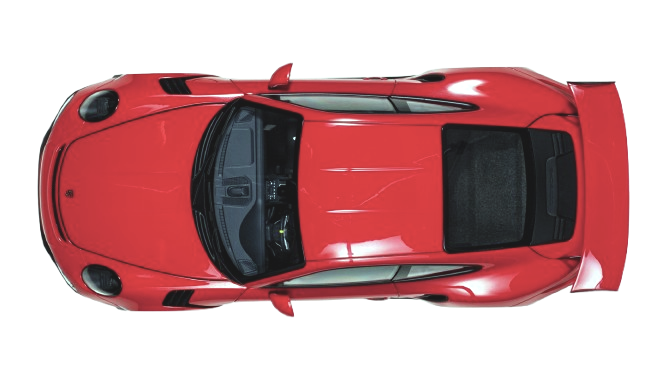
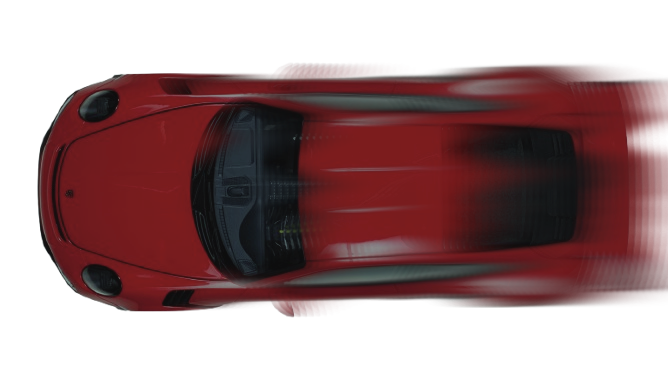
updated animation on slide 2

diff --git a/index.html b/index.html
@@ -237,6 +237,9 @@
 
       <!-- Slide 2 -->
       <div class="slide slide2" id="slide2" >
+
+
+        <div class="image-section-wrapper">
         <div class="image-section">
 
 
@@ -249,35 +252,94 @@
           
 
 
-          <svg class="svgLightLine" viewBox="966.054 -3834.179 858.947 2807.5249" width="1680px" height="2807.52px"  preserveAspectRatio="xMidYMid meet">
+          <svg class="svgLightLine" viewBox="966.054 -3834.179 858.947 2807.5249" width="1680px" height="2807.52px" preserveAspectRatio="xMidYMid meet">
             <defs>
-              <!-- Define a glow filter for a soft light effect -->
-              <filter id="glow">
-                <feGaussianBlur stdDeviation="4" result="blur" />
-                <feMerge>
-                  <feMergeNode in="blur" />
-                  <feMergeNode in="SourceGraphic" />
-                </feMerge>
+                <!-- Red to Transparent Gradient -->
+                <linearGradient id="trailGradient" x1="0%" y1="50%" x2="100%" y2="50%">
+                    <stop offset="0%" stop-color="red" stop-opacity="1"/>
+                    <stop offset="100%" stop-color="red" stop-opacity="0"/>
+                </linearGradient>
+        
+                <!-- Orange to Transparent Gradient -->
+                <linearGradient id="orangeTrailGradient" x1="0%" y1="50%" x2="100%" y2="50%">
+                    <stop offset="0%" stop-color="orangered" stop-opacity="1"/>
+                    <stop offset="100%" stop-color="orangered" stop-opacity="0"/>
+                </linearGradient>
+        
+                <!-- Glow Effect -->
+                <filter id="glow" x="-50%" y="-50%" width="200%" height="200%">
+                    <feGaussianBlur stdDeviation="20" result="blur"/>
+                    <feMerge>
+                        <feMergeNode in="blur"/>
+                    </feMerge>
+                </filter>
+                <filter id="glow2" x="-50%" y="-50%" width="200%" height="200%">
+                  <feGaussianBlur stdDeviation="6" result="blur"/>
+                  <feMerge>
+                      <feMergeNode in="blur"/>
+                  </feMerge>
               </filter>
-              <!-- Define a linear gradient that fades from opaque red to transparent -->
-              <linearGradient id="trailGradient" x1="0%" y1="0%" x2="100%" y2="0%">
-                <stop offset="0%" style="stop-color:rgb(255,0,0);stop-opacity:1" />
-                <stop offset="100%" style="stop-color:rgb(255,0,0);stop-opacity:0" />
-              </linearGradient>
             </defs>
-          
-            <!-- The enhanced light trail path -->
-            <path class="svgCarLightPath" id="lightTrail" 
-                  d="M 1825.001 -3834.179 L 1823.158 -3828.895 C 1821.314 -3823.611 1817.628 -3813.043 1814.801 -3804.318 C 1811.975 -3795.594 1810.009 -3788.712 1806.937 -3780.602 C 1803.865 -3772.492 1799.687 -3763.153 1793.789 -3753.691 C 1787.89 -3744.229 1780.272 -3734.644 1773.39 -3726.534 C 1766.509 -3718.423 1760.364 -3711.788 1753.974 -3703.555 C 1747.584 -3695.322 1740.949 -3685.491 1734.805 -3676.398 C 1728.661 -3667.305 1723.008 -3658.949 1716.004 -3650.839 C 1709 -3642.728 1700.644 -3634.864 1688.724 -3621.346 C 1676.805 -3607.829 1661.321 -3588.66 1649.402 -3575.511 C 1637.482 -3562.363 1629.126 -3555.236 1616.715 -3545.774 C 1604.304 -3536.312 1587.838 -3524.516 1571.741 -3512.842 C 1555.643 -3501.168 1539.914 -3489.617 1527.38 -3480.155 C 1514.846 -3470.693 1505.507 -3463.32 1496.291 -3456.193 C 1487.075 -3449.066 1477.981 -3442.184 1469.502 -3434.811 C 1461.023 -3427.439 1453.159 -3419.574 1444.065 -3410.481 C 1434.972 -3401.388 1424.65 -3391.065 1413.591 -3380.252 C 1402.531 -3369.438 1390.735 -3358.133 1381.273 -3350.146 C 1371.811 -3342.158 1364.683 -3337.489 1354.116 -3324.094 C 1343.548 -3310.7 1329.539 -3288.582 1318.48 -3271.378 C 1307.421 -3254.175 1299.31 -3241.886 1291.569 -3230.581 C 1283.827 -3219.276 1276.454 -3208.954 1270.187 -3199.369 C 1263.92 -3189.784 1258.759 -3180.937 1252.984 -3169.508 C 1247.208 -3158.08 1240.818 -3144.072 1231.356 -3122.09 C 1221.894 -3100.108 1209.36 -3070.154 1200.758 -3044.731 C 1192.157 -3019.309 1187.487 -2998.419 1184.661 -2977.529 C 1181.835 -2956.639 1180.852 -2935.749 1181.098 -2916.333 C 1181.343 -2896.918 1182.818 -2878.977 1185.398 -2859.807 C 1187.979 -2840.638 1191.665 -2820.239 1201.25 -2790.42 C 1210.835 -2760.601 1226.318 -2721.361 1240.081 -2690.067 C 1253.844 -2658.773 1265.886 -2635.426 1279.895 -2612.569 C 1293.904 -2589.713 1309.878 -2567.349 1324.378 -2550.637 C 1338.878 -2533.925 1351.904 -2522.865 1365.421 -2509.963 C 1378.938 -2497.06 1392.946 -2482.314 1403.76 -2472.088 C 1414.574 -2461.861 1422.192 -2456.155 1431.04 -2446.666 C 1439.887 -2437.177 1449.964 -2423.905 1462.129 -2408.791 C 1474.294 -2393.676 1488.549 -2376.719 1500.837 -2358.532 C 1513.125 -2340.346 1523.448 -2320.93 1534.999 -2298.566 C 1546.55 -2276.201 1559.329 -2250.887 1569.406 -2227.293 C 1579.482 -2203.7 1586.855 -2181.827 1593.982 -2156.022 C 1601.109 -2130.217 1607.991 -2100.479 1612.537 -2070.742 C 1617.084 -2041.004 1619.296 -2011.267 1620.033 -1983.004 C 1620.771 -1954.741 1620.033 -1927.952 1618.313 -1902.393 C 1616.592 -1876.833 1613.889 -1852.503 1608.359 -1833.797 C 1602.829 -1815.092 1594.473 -1802.013 1584.52 -1787.363 C 1574.566 -1772.712 1563.016 -1756.492 1552.079 -1742.114 C 1541.143 -1727.737 1530.82 -1715.203 1520.252 -1701.194 C 1509.684 -1687.186 1498.871 -1671.703 1487.811 -1657.326 C 1476.752 -1642.949 1465.447 -1629.677 1454.511 -1617.881 C 1443.574 -1606.084 1433.006 -1595.762 1421.209 -1585.686 C 1409.413 -1575.609 1396.387 -1565.779 1381.764 -1553.982 C 1367.141 -1542.185 1350.921 -1528.422 1336.666 -1514.905 C 1322.412 -1501.388 1310.124 -1488.116 1291.815 -1470.23 C 1273.505 -1452.344 1249.175 -1429.844 1226.441 -1408.394 C 1203.708 -1386.945 1182.572 -1366.546 1162.788 -1346.148 C 1143.004 -1325.749 1124.571 -1305.351 1106.631 -1282.617 C 1088.69 -1259.884 1071.24 -1234.816 1053.791 -1208.151 C 1036.342 -1181.485 1018.893 -1153.223 1005.622 -1129.506 C 992.351 -1105.79 983.257 -1086.621 977.359 -1070.236 C 971.461 -1053.852 968.757 -1040.253 967.405 -1033.454 L 966.054 -1026.654" bx:d="M 1825.001 -3834.179 U 1813.941 -3802.475 U 1808.043 -3781.831 U 1795.509 -3753.814 U 1772.653 -3725.059 U 1754.22 -3705.152 U 1734.313 -3675.661 U 1717.356 -3650.593 U 1692.288 -3626.999 U 1645.838 -3569.49 U 1620.77 -3548.109 U 1571.372 -3512.719 U 1524.185 -3478.066 U 1496.168 -3455.947 U 1468.888 -3435.303 U 1445.294 -3411.71 U 1414.328 -3380.743 U 1378.938 -3346.828 U 1357.556 -3332.819 U 1315.531 -3266.463 U 1291.2 -3229.598 U 1269.081 -3198.632 U 1253.598 -3172.089 U 1234.428 -3130.063 U 1196.826 -3040.199 U 1182.818 -2977.529 U 1179.869 -2914.859 U 1184.292 -2861.036 U 1195.352 -2799.841 U 1241.801 -2682.121 U 1277.929 -2612.078 U 1325.853 -2544.984 U 1364.929 -2511.806 U 1406.955 -2467.568 U 1429.811 -2450.448 U 1460.04 -2410.634 U 1502.803 -2359.761 U 1533.77 -2301.515 U 1572.109 -2225.573 U 1594.228 -2159.954 U 1614.872 -2070.742 U 1621.508 -1981.529 U 1619.296 -1901.164 U 1611.185 -1828.172 U 1586.117 -1788.933 U 1551.465 -1740.271 U 1520.498 -1702.669 U 1488.057 -1656.22 U 1454.142 -1616.406 U 1422.438 -1585.44 U 1383.362 -1555.948 U 1334.7 -1514.659 U 1297.836 -1474.845 U 1224.844 -1407.343 U 1161.436 -1346.148 U 1106.139 -1284.952 U 1053.791 -1209.748 U 1001.444 -1124.96 U 974.164 -1067.451 U 966.054 -1026.654 1@10d493d5"
-                   />
-          </svg>
+        
+            <!-- Original Red Light Trail -->
+            <path class="svgCarLightPath" id="lightTrail"
+                d="M 1825.001 -3834.179 L 1823.158 -3828.895 C 1821.314 -3823.611 1817.628 -3813.043 1814.801 -3804.318 C 1811.975 -3795.594 1810.009 -3788.712 1806.937 -3780.602 C 1803.865 -3772.492 1799.687 -3763.153 1793.789 -3753.691 C 1787.89 -3744.229 1780.272 -3734.644 1773.39 -3726.534 C 1766.509 -3718.423 1760.364 -3711.788 1753.974 -3703.555 C 1747.584 -3695.322 1740.949 -3685.491 1734.805 -3676.398 C 1728.661 -3667.305 1723.008 -3658.949 1716.004 -3650.839 C 1709 -3642.728 1700.644 -3634.864 1688.724 -3621.346 C 1676.805 -3607.829 1661.321 -3588.66 1649.402 -3575.511 C 1637.482 -3562.363 1629.126 -3555.236 1616.715 -3545.774 C 1604.304 -3536.312 1587.838 -3524.516 1571.741 -3512.842 C 1555.643 -3501.168 1539.914 -3489.617 1527.38 -3480.155 C 1514.846 -3470.693 1505.507 -3463.32 1496.291 -3456.193 C 1487.075 -3449.066 1477.981 -3442.184 1469.502 -3434.811 C 1461.023 -3427.439 1453.159 -3419.574 1444.065 -3410.481 C 1434.972 -3401.388 1424.65 -3391.065 1413.591 -3380.252 C 1402.531 -3369.438 1390.735 -3358.133 1381.273 -3350.146 C 1371.811 -3342.158 1364.683 -3337.489 1354.116 -3324.094 C 1343.548 -3310.7 1329.539 -3288.582 1318.48 -3271.378 C 1307.421 -3254.175 1299.31 -3241.886 1291.569 -3230.581 C 1283.827 -3219.276 1276.454 -3208.954 1270.187 -3199.369 C 1263.92 -3189.784 1258.759 -3180.937 1252.984 -3169.508 C 1247.208 -3158.08 1240.818 -3144.072 1231.356 -3122.09 C 1221.894 -3100.108 1209.36 -3070.154 1200.758 -3044.731 C 1192.157 -3019.309 1187.487 -2998.419 1184.661 -2977.529 C 1181.835 -2956.639 1180.852 -2935.749 1181.098 -2916.333 C 1181.343 -2896.918 1182.818 -2878.977 1185.398 -2859.807 C 1187.979 -2840.638 1191.665 -2820.239 1201.25 -2790.42 C 1210.835 -2760.601 1226.318 -2721.361 1240.081 -2690.067 C 1253.844 -2658.773 1265.886 -2635.426 1279.895 -2612.569 C 1293.904 -2589.713 1309.878 -2567.349 1324.378 -2550.637 C 1338.878 -2533.925 1351.904 -2522.865 1365.421 -2509.963 C 1378.938 -2497.06 1392.946 -2482.314 1403.76 -2472.088 C 1414.574 -2461.861 1422.192 -2456.155 1431.04 -2446.666 C 1439.887 -2437.177 1449.964 -2423.905 1462.129 -2408.791 C 1474.294 -2393.676 1488.549 -2376.719 1500.837 -2358.532 C 1513.125 -2340.346 1523.448 -2320.93 1534.999 -2298.566 C 1546.55 -2276.201 1559.329 -2250.887 1569.406 -2227.293 C 1579.482 -2203.7 1586.855 -2181.827 1593.982 -2156.022 C 1601.109 -2130.217 1607.991 -2100.479 1612.537 -2070.742 C 1617.084 -2041.004 1619.296 -2011.267 1620.033 -1983.004 C 1620.771 -1954.741 1620.033 -1927.952 1618.313 -1902.393 C 1616.592 -1876.833 1613.889 -1852.503 1608.359 -1833.797 C 1602.829 -1815.092 1594.473 -1802.013 1584.52 -1787.363 C 1574.566 -1772.712 1563.016 -1756.492 1552.079 -1742.114 C 1541.143 -1727.737 1530.82 -1715.203 1520.252 -1701.194 C 1509.684 -1687.186 1498.871 -1671.703 1487.811 -1657.326 C 1476.752 -1642.949 1465.447 -1629.677 1454.511 -1617.881 C 1443.574 -1606.084 1433.006 -1595.762 1421.209 -1585.686 C 1409.413 -1575.609 1396.387 -1565.779 1381.764 -1553.982 C 1367.141 -1542.185 1350.921 -1528.422 1336.666 -1514.905 C 1322.412 -1501.388 1310.124 -1488.116 1291.815 -1470.23 C 1273.505 -1452.344 1249.175 -1429.844 1226.441 -1408.394 C 1203.708 -1386.945 1182.572 -1366.546 1162.788 -1346.148 C 1143.004 -1325.749 1124.571 -1305.351 1106.631 -1282.617 C 1088.69 -1259.884 1071.24 -1234.816 1053.791 -1208.151 C 1036.342 -1181.485 1018.893 -1153.223 1005.622 -1129.506 C 992.351 -1105.79 983.257 -1086.621 977.359 -1070.236 C 971.461 -1053.852 968.757 -1040.253 967.405 -1033.454 L 966.054 -1026.654" bx:d="M 1825.001 -3834.179 U 1813.941 -3802.475 U 1808.043 -3781.831 U 1795.509 -3753.814 U 1772.653 -3725.059 U 1754.22 -3705.152 U 1734.313 -3675.661 U 1717.356 -3650.593 U 1692.288 -3626.999 U 1645.838 -3569.49 U 1620.77 -3548.109 U 1571.372 -3512.719 U 1524.185 -3478.066 U 1496.168 -3455.947 U 1468.888 -3435.303 U 1445.294 -3411.71 U 1414.328 -3380.743 U 1378.938 -3346.828 U 1357.556 -3332.819 U 1315.531 -3266.463 U 1291.2 -3229.598 U 1269.081 -3198.632 U 1253.598 -3172.089 U 1234.428 -3130.063 U 1196.826 -3040.199 U 1182.818 -2977.529 U 1179.869 -2914.859 U 1184.292 -2861.036 U 1195.352 -2799.841 U 1241.801 -2682.121 U 1277.929 -2612.078 U 1325.853 -2544.984 U 1364.929 -2511.806 U 1406.955 -2467.568 U 1429.811 -2450.448 U 1460.04 -2410.634 U 1502.803 -2359.761 U 1533.77 -2301.515 U 1572.109 -2225.573 U 1594.228 -2159.954 U 1614.872 -2070.742 U 1621.508 -1981.529 U 1619.296 -1901.164 U 1611.185 -1828.172 U 1586.117 -1788.933 U 1551.465 -1740.271 U 1520.498 -1702.669 U 1488.057 -1656.22 U 1454.142 -1616.406 U 1422.438 -1585.44 U 1383.362 -1555.948 U 1334.7 -1514.659 U 1297.836 -1474.845 U 1224.844 -1407.343 U 1161.436 -1346.148 U 1106.139 -1284.952 U 1053.791 -1209.748 U 1001.444 -1124.96 U 974.164 -1067.451 U 966.054 -1026.654 1@10d493d5"
+                stroke="url(#trailGradient)"
+                
+                fill="none"
+                filter="url(#glow)"
+                opacity="0.8"
+            />
+        
+            <!-- Slightly Offset Orange Light Trail -->
+            <path class="svgCarLightPath2" id="lightTrailOrange"
+                d="M 1825.001 -3834.179 L 1823.158 -3828.895 C 1821.314 -3823.611 1817.628 -3813.043 1814.801 -3804.318 C 1811.975 -3795.594 1810.009 -3788.712 1806.937 -3780.602 C 1803.865 -3772.492 1799.687 -3763.153 1793.789 -3753.691 C 1787.89 -3744.229 1780.272 -3734.644 1773.39 -3726.534 C 1766.509 -3718.423 1760.364 -3711.788 1753.974 -3703.555 C 1747.584 -3695.322 1740.949 -3685.491 1734.805 -3676.398 C 1728.661 -3667.305 1723.008 -3658.949 1716.004 -3650.839 C 1709 -3642.728 1700.644 -3634.864 1688.724 -3621.346 C 1676.805 -3607.829 1661.321 -3588.66 1649.402 -3575.511 C 1637.482 -3562.363 1629.126 -3555.236 1616.715 -3545.774 C 1604.304 -3536.312 1587.838 -3524.516 1571.741 -3512.842 C 1555.643 -3501.168 1539.914 -3489.617 1527.38 -3480.155 C 1514.846 -3470.693 1505.507 -3463.32 1496.291 -3456.193 C 1487.075 -3449.066 1477.981 -3442.184 1469.502 -3434.811 C 1461.023 -3427.439 1453.159 -3419.574 1444.065 -3410.481 C 1434.972 -3401.388 1424.65 -3391.065 1413.591 -3380.252 C 1402.531 -3369.438 1390.735 -3358.133 1381.273 -3350.146 C 1371.811 -3342.158 1364.683 -3337.489 1354.116 -3324.094 C 1343.548 -3310.7 1329.539 -3288.582 1318.48 -3271.378 C 1307.421 -3254.175 1299.31 -3241.886 1291.569 -3230.581 C 1283.827 -3219.276 1276.454 -3208.954 1270.187 -3199.369 C 1263.92 -3189.784 1258.759 -3180.937 1252.984 -3169.508 C 1247.208 -3158.08 1240.818 -3144.072 1231.356 -3122.09 C 1221.894 -3100.108 1209.36 -3070.154 1200.758 -3044.731 C 1192.157 -3019.309 1187.487 -2998.419 1184.661 -2977.529 C 1181.835 -2956.639 1180.852 -2935.749 1181.098 -2916.333 C 1181.343 -2896.918 1182.818 -2878.977 1185.398 -2859.807 C 1187.979 -2840.638 1191.665 -2820.239 1201.25 -2790.42 C 1210.835 -2760.601 1226.318 -2721.361 1240.081 -2690.067 C 1253.844 -2658.773 1265.886 -2635.426 1279.895 -2612.569 C 1293.904 -2589.713 1309.878 -2567.349 1324.378 -2550.637 C 1338.878 -2533.925 1351.904 -2522.865 1365.421 -2509.963 C 1378.938 -2497.06 1392.946 -2482.314 1403.76 -2472.088 C 1414.574 -2461.861 1422.192 -2456.155 1431.04 -2446.666 C 1439.887 -2437.177 1449.964 -2423.905 1462.129 -2408.791 C 1474.294 -2393.676 1488.549 -2376.719 1500.837 -2358.532 C 1513.125 -2340.346 1523.448 -2320.93 1534.999 -2298.566 C 1546.55 -2276.201 1559.329 -2250.887 1569.406 -2227.293 C 1579.482 -2203.7 1586.855 -2181.827 1593.982 -2156.022 C 1601.109 -2130.217 1607.991 -2100.479 1612.537 -2070.742 C 1617.084 -2041.004 1619.296 -2011.267 1620.033 -1983.004 C 1620.771 -1954.741 1620.033 -1927.952 1618.313 -1902.393 C 1616.592 -1876.833 1613.889 -1852.503 1608.359 -1833.797 C 1602.829 -1815.092 1594.473 -1802.013 1584.52 -1787.363 C 1574.566 -1772.712 1563.016 -1756.492 1552.079 -1742.114 C 1541.143 -1727.737 1530.82 -1715.203 1520.252 -1701.194 C 1509.684 -1687.186 1498.871 -1671.703 1487.811 -1657.326 C 1476.752 -1642.949 1465.447 -1629.677 1454.511 -1617.881 C 1443.574 -1606.084 1433.006 -1595.762 1421.209 -1585.686 C 1409.413 -1575.609 1396.387 -1565.779 1381.764 -1553.982 C 1367.141 -1542.185 1350.921 -1528.422 1336.666 -1514.905 C 1322.412 -1501.388 1310.124 -1488.116 1291.815 -1470.23 C 1273.505 -1452.344 1249.175 -1429.844 1226.441 -1408.394 C 1203.708 -1386.945 1182.572 -1366.546 1162.788 -1346.148 C 1143.004 -1325.749 1124.571 -1305.351 1106.631 -1282.617 C 1088.69 -1259.884 1071.24 -1234.816 1053.791 -1208.151 C 1036.342 -1181.485 1018.893 -1153.223 1005.622 -1129.506 C 992.351 -1105.79 983.257 -1086.621 977.359 -1070.236 C 971.461 -1053.852 968.757 -1040.253 967.405 -1033.454 L 966.054 -1026.654" bx:d="M 1825.001 -3834.179 U 1813.941 -3802.475 U 1808.043 -3781.831 U 1795.509 -3753.814 U 1772.653 -3725.059 U 1754.22 -3705.152 U 1734.313 -3675.661 U 1717.356 -3650.593 U 1692.288 -3626.999 U 1645.838 -3569.49 U 1620.77 -3548.109 U 1571.372 -3512.719 U 1524.185 -3478.066 U 1496.168 -3455.947 U 1468.888 -3435.303 U 1445.294 -3411.71 U 1414.328 -3380.743 U 1378.938 -3346.828 U 1357.556 -3332.819 U 1315.531 -3266.463 U 1291.2 -3229.598 U 1269.081 -3198.632 U 1253.598 -3172.089 U 1234.428 -3130.063 U 1196.826 -3040.199 U 1182.818 -2977.529 U 1179.869 -2914.859 U 1184.292 -2861.036 U 1195.352 -2799.841 U 1241.801 -2682.121 U 1277.929 -2612.078 U 1325.853 -2544.984 U 1364.929 -2511.806 U 1406.955 -2467.568 U 1429.811 -2450.448 U 1460.04 -2410.634 U 1502.803 -2359.761 U 1533.77 -2301.515 U 1572.109 -2225.573 U 1594.228 -2159.954 U 1614.872 -2070.742 U 1621.508 -1981.529 U 1619.296 -1901.164 U 1611.185 -1828.172 U 1586.117 -1788.933 U 1551.465 -1740.271 U 1520.498 -1702.669 U 1488.057 -1656.22 U 1454.142 -1616.406 U 1422.438 -1585.44 U 1383.362 -1555.948 U 1334.7 -1514.659 U 1297.836 -1474.845 U 1224.844 -1407.343 U 1161.436 -1346.148 U 1106.139 -1284.952 U 1053.791 -1209.748 U 1001.444 -1124.96 U 974.164 -1067.451 U 966.054 -1026.654 1@10d493d5"
+                stroke="url(#orangeTrailGradient)"
+                stroke-width="10"
+                fill="none"
+                filter="url(#glow2)"
+                opacity="1"
+            />
+        </svg>
+        
+
+
+
+
+
+
+
+
+
+
+
+
           
 
+
+
+
+
+
+
+
+
+
+
+
+
+          
+         
+          
 
           <div class="carDiv" >
           </div>
           
         </div>
+      </div>
+
+
+
         <div class="content-section">
 
 
@@ -371,3 +433,11 @@
  
 </body>
 </html>
+
+
+
+
+
+
+
+

diff --git a/js/slide2.js b/js/slide2.js
@@ -17,13 +17,19 @@ document.addEventListener("DOMContentLoaded", () => {
 
 
 
-  const car = document.querySelector('.carDiv');const lightTrailElement = document.getElementById("lightTrail");
+  const car = document.querySelector('.carDiv');
+  const lightTrailElement = document.getElementById("lightTrail");
+  const lightTrailElement2 = document.getElementById("lightTrailOrange");
   const pathLength = lightTrailElement.getTotalLength();
+  const pathLength2 = lightTrailElement2.getTotalLength();
   console.log("Path total length:", pathLength);
   
   // Use the actual path length for the dash array and offset.
   lightTrailElement.style.strokeDasharray = pathLength;
   lightTrailElement.style.strokeDashoffset = pathLength ;
+
+  lightTrailElement2.style.strokeDasharray = pathLength2;
+  lightTrailElement2.style.strokeDashoffset = pathLength2;
 
 
 
@@ -39,7 +45,7 @@ document.addEventListener("DOMContentLoaded", () => {
       start: "top top",
       end: "100% bottom bottom",
       scrub: 2,
-       markers: true,  // Enable for debugging
+       //markers: true,  // Enable for debugging
     }
   });
   
@@ -47,26 +53,32 @@ document.addEventListener("DOMContentLoaded", () => {
   timeline.to(car, {
     duration: 1.1,
     motionPath: {
-      ease: CustomEase.create("customCar", "M0,0 C0,0 0.085,0.188 0.101,0.249 0.108,0.272 0.17,0.307 0.179,0.321 0.185,0.332 0.269,0.356 0.299,0.375 0.449,0.472 0.672,0.522 0.809,0.626 0.841,0.64 0.893,0.676 0.902,0.684 0.912,0.694 0.929,0.719 0.936,0.75 0.94,0.771 0.96,0.804 0.965,0.826 0.977,0.882 1,1 1,1 "),
+      ease: "none",
       path: lightTrailElement,
       align: lightTrailElement,
-      curviness: 0,
       autoRotate: 180,
       alignOrigin: [0.5, 0.5]
-    },
-    onUpdate: function () {
-      let progress = this.progress(); // Get the current progress (0 to 1)
-      if (progress >= 0.95) {
-        gsap.to(car, { opacity: 0, duration: 0.1 }); // Fade out at end
-      } else {
-        gsap.to(car, { opacity: 1, duration: 0.1 }); // Ensure car is visible when scrolling back up
-      }
     }
   }, 0);
+  
+  // Small push forward at the end
+  timeline.to(car, {
+    y: "+=100",  // Optional slight drop
+    duration: 0.3,
+    ease: "power2.out"
+  }, ">"); // Runs immediately after the motionPath animation
+  
   
   
   // Animate the drawing of the light trail by reducing the dash offset
   timeline.to(lightTrailElement, {
+    strokeDashoffset: 0,
+    duration:0.5,
+    ease: CustomEase.create("custom", "M0,0 C0,0 0.074,0.072 0.092,0.084 0.097,0.087 0.141,0.123 0.202,0.184 0.232,0.214 0.306,0.255 0.35,0.286 0.393,0.317 0.456,0.355 0.5,0.4 0.564,0.467 0.677,0.489 0.741,0.559 0.779,0.6 0.906,0.671 0.906,0.671 0.906,0.671 0.962,0.746 0.988,0.818 1.02,0.907 1,1 1,1 "),
+  }, 0); // start at the same time; if needed, you can add a delay (e.g., 0.1) here
+
+  // Animate the drawing of the light trail by reducing the dash offset
+  timeline.to(lightTrailElement2, {
     strokeDashoffset: 0,
     duration:0.5,
     ease: CustomEase.create("custom", "M0,0 C0,0 0.074,0.072 0.092,0.084 0.097,0.087 0.141,0.123 0.202,0.184 0.232,0.214 0.306,0.255 0.35,0.286 0.393,0.317 0.456,0.355 0.5,0.4 0.564,0.467 0.677,0.489 0.741,0.559 0.779,0.6 0.906,0.671 0.906,0.671 0.906,0.671 0.962,0.746 0.988,0.818 1.02,0.907 1,1 1,1 "),
@@ -78,6 +90,46 @@ document.addEventListener("DOMContentLoaded", () => {
 
 
 
+
+
+  const imageSection = document.querySelector(".slide2 .image-section");
+  const contentSection = document.querySelector(".slide2 .content-section");
+
+
+
+
+
+
+
+
+
+
+
+
+
+
+
+
+
+
+  // Create a timeline that drives both animations together.
+  gsap.timeline({
+    scrollTrigger: {
+      trigger: imageSection,
+      scroller: ".slide2",
+      start: "top top",
+      end: "bottom bottom",
+      scrub: 2,
+      // markers: true,  // Uncomment for debugging
+    }
+  });
+
+  // Animate image-section upward by 40vh.
+  timeline.to(imageSection, {
+    y: "-60vh",
+    ease: CustomEase.create("M0,0 C0,0 0.384,0.033 0.429,0.048 0.468,0.061 0.603,0.166 0.64,0.184 0.676,0.202 0.669,0.19 0.783,0.315 0.89,0.433 0.863,0.403 0.878,0.441 0.93,0.581 0.936,0.615 0.936,0.615 0.936,0.615 0.983,0.822 0.983,0.822 0.983,0.822 1,1 1,1 "),
+    duration: 2,
+  }, 0);
 
 
 

diff --git a/css/slideSmartLink.css b/css/slideSmartLink.css
@@ -8,6 +8,19 @@
     display: flex;
     align-items: center;
     justify-content: center;
+
+
+    
+    
+}
+
+
+.slide2 .image-section-wrapper{
+
+    overflow: hidden;
+
+    height: 300vh;
+
 }
 
 /* The image: fills the container completely */
@@ -113,13 +126,35 @@
 
     position:absolute;
     stroke: url(#trailGradient); 
-    stroke-width: 8; 
+    stroke-width: 60; 
     fill: none; 
     
     filter: url(#glow);
-    top: 0;
-    left: 0;
-    width: fit-content;
-    height: 100%;
+    
 
 }
+
+
+
+
+
+.slide2 .content-section .footer{
+
+
+    position: relative;
+}
+
+/* Keyframes for the fade-out animation */
+@keyframes fadeOut {
+    0% {
+      opacity: 1;
+    }
+    100% {
+      opacity: 0;
+    }
+  }
+
+  /* Apply the fade-out animation to the path */
+  .fadeOutLine {
+    animation: fadeOut 5s linear forwards; /* 5s is the duration, you can adjust as needed */
+  }

diff --git a/css/global.css b/css/global.css
@@ -306,3 +306,11 @@ nav {
 .footer-nav a:hover {
   text-decoration: underline;
 }
+
+
+
+.slide2{
+
+
+  
+}
